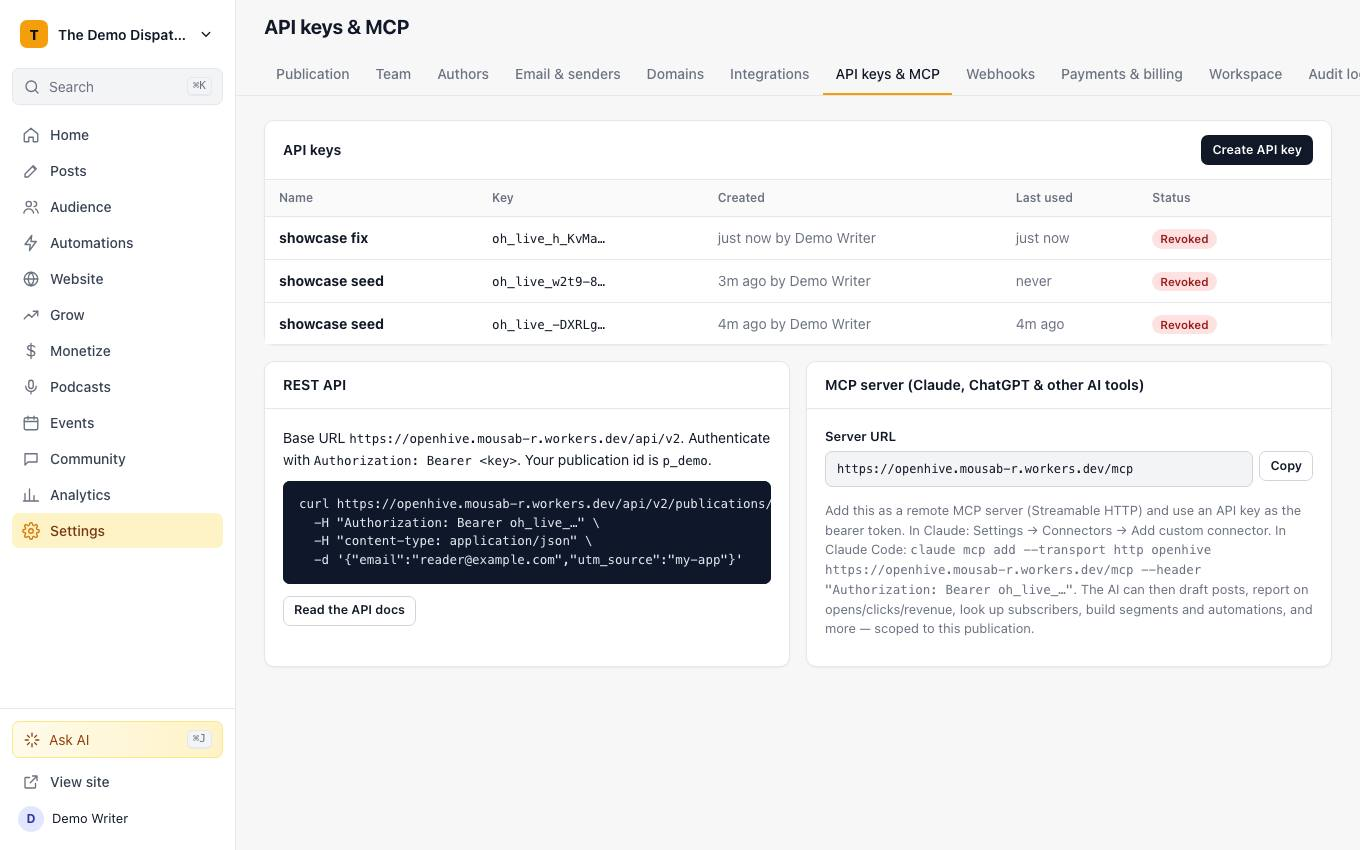
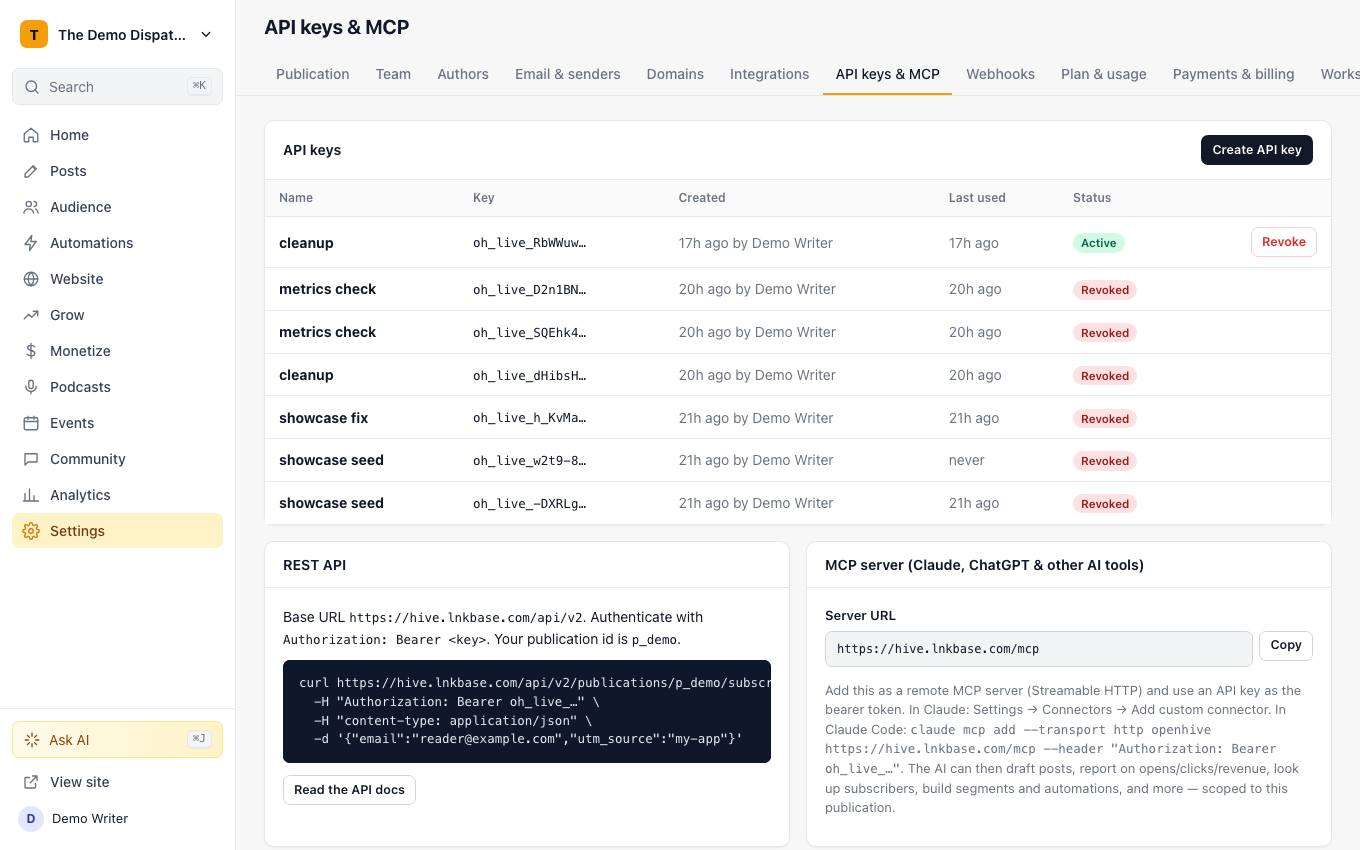
Hide try-it requesters from demo views; changelog for the move to Lnkbase; fresh screenshots; no preview URLs

diff --git a/src/routes/audience/subscribers.tsx b/src/routes/audience/subscribers.tsx
@@ -25,12 +25,12 @@ app.get('/', async (c) => {
   const limit = 50;
   const rows = await all<Subscriber>(
     c.env,
-    `SELECT s.* FROM subscribers s WHERE s.pub_id = ? AND (${cc.sql}) ${cur ? 'AND (s.created_at < ? OR (s.created_at = ? AND s.id < ?))' : ''} ORDER BY s.created_at DESC, s.id DESC LIMIT ?`,
+    `SELECT s.* FROM subscribers s WHERE s.pub_id = ? AND s.source != 'try_it' AND (${cc.sql}) ${cur ? 'AND (s.created_at < ? OR (s.created_at = ? AND s.id < ?))' : ''} ORDER BY s.created_at DESC, s.id DESC LIMIT ?`,
     pub.id, ...cc.params, ...(cur ? [cur.t, cur.t, cur.id] : []), limit + 1,
   );
   const more = rows.length > limit;
   const list = rows.slice(0, limit);
-  const total = await val<number>(c.env, `SELECT COUNT(*) FROM subscribers s WHERE s.pub_id = ? AND (${cc.sql})`, pub.id, ...cc.params);
+  const total = await val<number>(c.env, `SELECT COUNT(*) FROM subscribers s WHERE s.pub_id = ? AND s.source != 'try_it' AND (${cc.sql})`, pub.id, ...cc.params);
   const since = now() - 30 * DAY;
   const [active, new30, unsub30, premium] = await Promise.all([
     val<number>(c.env, `SELECT COUNT(*) FROM subscribers WHERE pub_id = ? AND status = 'active'`, pub.id),
@@ -145,7 +145,7 @@ async function targetIds(c: Ctx, f: Record<string, any>): Promise<string[]> {
   if (f.scope === 'all') {
     const g = filterGroup(filtersFrom((k) => c.req.query(k)));
     const cc = await compile(c.env, pub.id, g);
-    return (await all<{ id: string }>(c.env, `SELECT s.id FROM subscribers s WHERE s.pub_id = ? AND (${cc.sql}) LIMIT 20000`, pub.id, ...cc.params)).map((r) => r.id);
+    return (await all<{ id: string }>(c.env, `SELECT s.id FROM subscribers s WHERE s.pub_id = ? AND s.source != 'try_it' AND (${cc.sql}) LIMIT 20000`, pub.id, ...cc.params)).map((r) => r.id);
   }
   const ids: string[] = (f.ids || []).map(String).slice(0, 1000);
   if (!ids.length) return [];

diff --git a/src/lib/analytics.ts b/src/lib/analytics.ts
@@ -473,13 +473,13 @@ export async function suppressionSummary(env: Env, pubId: string) {
 export async function recentActivity(env: Env, pubId: string, limit = 12) {
   return all<{ kind: string; title: string; detail: string; at: number; href: string }>(env, `
     SELECT * FROM (
-      SELECT 'subscriber' AS kind, COALESCE(NULLIF(name, ''), email) AS title, 'subscribed via ' || source AS detail, created_at AS at, '/app/audience/subscribers/' || id AS href FROM subscribers WHERE pub_id = ?1 AND created_at > ?2
+      SELECT 'subscriber' AS kind, COALESCE(NULLIF(name, ''), email) AS title, 'subscribed via ' || source AS detail, created_at AS at, '/app/audience/subscribers/' || id AS href FROM subscribers WHERE pub_id = ?1 AND created_at > ?2 AND source != 'try_it'
       UNION ALL
       SELECT 'order', email, kind || ' · $' || printf('%.2f', amount_cents / 100.0), paid_at, '/app/monetize/orders' FROM orders WHERE pub_id = ?1 AND status = 'paid' AND paid_at > ?2
       UNION ALL
       SELECT 'comment', COALESCE((SELECT COALESCE(NULLIF(s.name, ''), s.email) FROM subscribers s WHERE s.id = c.subscriber_id), 'Reader'), substr(c.body, 1, 80), c.created_at, '/app/posts/' || c.post_id FROM comments c WHERE c.pub_id = ?1 AND c.created_at > ?2
       UNION ALL
-      SELECT 'unsubscribe', COALESCE(NULLIF(name, ''), email), COALESCE('unsubscribed: ' || unsubscribe_reason, 'unsubscribed'), unsubscribed_at, '/app/audience/subscribers/' || id FROM subscribers WHERE pub_id = ?1 AND unsubscribed_at > ?2
+      SELECT 'unsubscribe', COALESCE(NULLIF(name, ''), email), COALESCE('unsubscribed: ' || unsubscribe_reason, 'unsubscribed'), unsubscribed_at, '/app/audience/subscribers/' || id FROM subscribers WHERE pub_id = ?1 AND unsubscribed_at > ?2 AND source != 'try_it'
     ) ORDER BY at DESC LIMIT ?3`, pubId, Date.now() - 60 * DAY, limit);
 }
 

diff --git a/src/routes/landing/tryit.ts b/src/routes/landing/tryit.ts
@@ -1,7 +1,8 @@
 // "Send me a sample issue" (/try): a visitor types their email and gets a real issue of the demo newsletter,
 // sent through the normal pipeline (tracking, unsubscribe, headers), then watches it go sent → opened → clicked.
 // Only on when TRY_IT=1 (the public demo). One email per address per day, a few per visitor, a daily cap overall.
-// The address is stored as an unsubscribed subscriber so it is never mailed again and isn't counted as a reader.
+// The address is stored as an unsubscribed subscriber (source 'try_it') so it is never mailed again, isn't counted
+// as a reader or an unsubscribe, and is hidden from the publication's subscriber list and activity feed.
 import type { Hono } from 'hono';
 import type { AppEnv, Env, Post, Publication, Subscriber } from '../../types';
 import { one, insert, run } from '../../lib/db';
@@ -97,7 +98,7 @@ export function mountTryIt(root: Hono<AppEnv>, ctxFor: (c: any) => Promise<Ctx>)
     let sub = await one<Subscriber>(c.env, 'SELECT * FROM subscribers WHERE pub_id = ? AND email = ?', pub.id, v.email);
     if (!sub) {
       const sid = id();
-      await insert(c.env, 'subscribers', { id: sid, pub_id: pub.id, email: v.email, name: '', status: 'unsubscribed', tier: 'free', source: 'try_it', source_detail: 'sample', referral_code: id(10), custom: '{}', unsubscribed_at: now(), created_at: now(), updated_at: now() });
+      await insert(c.env, 'subscribers', { id: sid, pub_id: pub.id, email: v.email, name: '', status: 'unsubscribed', tier: 'free', source: 'try_it', source_detail: 'sample', referral_code: id(10), custom: '{}', unsubscribed_at: null, created_at: now(), updated_at: now() });
       sub = await one<Subscriber>(c.env, 'SELECT * FROM subscribers WHERE id = ?', sid);
     }
     const sendId = id();

diff --git a/src/routes/landing/changelog-data.ts b/src/routes/landing/changelog-data.ts
@@ -3,6 +3,15 @@ export interface ChangelogEntry { date: string; slug: string; title: string; bod
 
 export const CHANGELOG: ChangelogEntry[] = [
   {
+    date: '2026-10-26', slug: 'lnkbase-newsletter', title: 'Now Lnkbase Newsletter, hosted at hive.lnkbase.com',
+    body: [
+      'The product is now a hosted service and part of Lnkbase. Sign up, and you\'re writing your first issue in a minute: Free up to 500 subscribers, then Starter, Pro and Scale plans by list size, with every feature on every plan and 0% of your revenue.',
+      'New accounts send from news.lnkbase.com until they add their own domain, with replies coming to them. Sending is protected for everyone: new accounts ramp up, big first campaigns get a quick review, and any campaign pauses on its own if bounces or spam complaints climb.',
+      'Settings → Plan & usage shows your subscribers and emails this month against your plan, and upgrades take effect right away.',
+    ],
+    links: [['Pricing', '/pricing'], ['Start free', '/signup']],
+  },
+  {
     date: '2026-10-26', slug: 'try-it', title: 'Get a real sample issue in your inbox',
     body: [
       'On the demo, type your email on the Try it page and get the latest issue for real, then watch it on a live status page as it\'s sent, opened and clicked. It scores 10/10 on mail-tester.com, with SPF, DKIM and DMARC all passing.',
